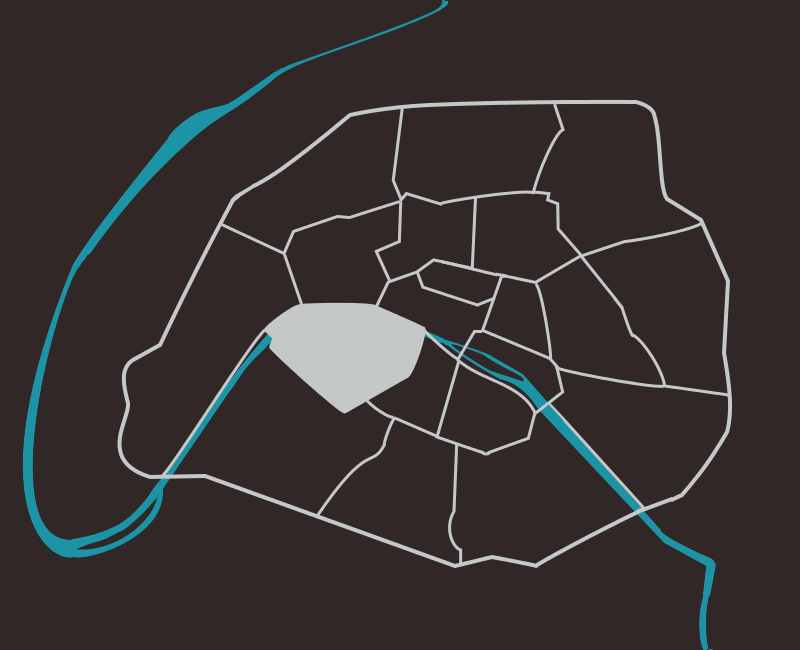
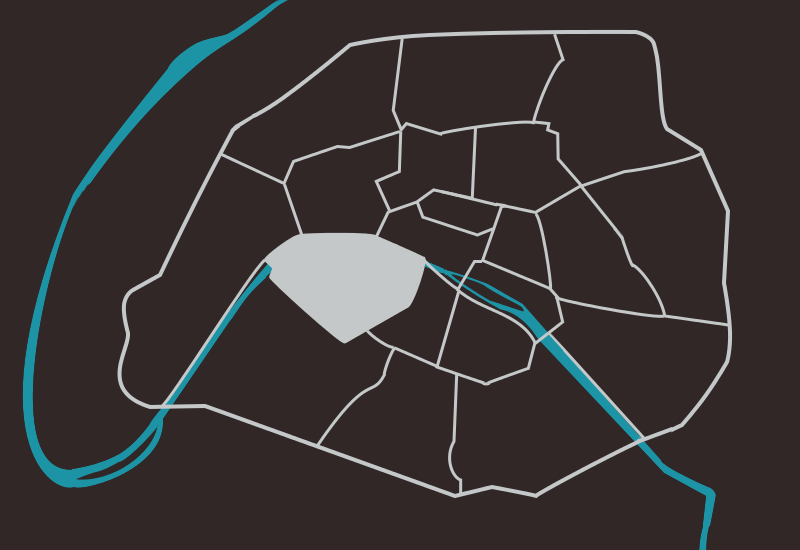
improved UI

diff --git a/home.php b/home.php
@@ -7,10 +7,10 @@
     
 </head>
 <body>
-	<?php include("banniere.php"); ?>
+	<!--<?php include("banniere.php"); ?>-->
 	<?php include("menu.php"); ?>
 	<div id='main'>
-		<img id='map' src="img/map-site/parismap.png" usemap="#paris" style="visibility:visible">
+		<img id='map' src="img/map-site/parismap_smaller.png" usemap="#paris" style="visibility:visible">
  		<map name='paris'><!--
  			<area id='img1'shape='polygon' coords='' href='eighteenth.php'></area>
  			<area id='img2'shape='polygon' coords='' href='eighteenth.php'></area>
@@ -28,10 +28,10 @@
  			<area id='img14'shape='polygon' coords='' href='eighteenth.php'></area>
  			<area id='img15'shape='polygon' coords='' href='eighteenth.php'></area>
  			<area id='img16'shape='polygon' coords='' href='eighteenth.php'></area>-->
- 			<area id='img17'shape='polygon' coords='400,109,349,117,222,221,280,251,292,230,392,199' href='districts/seventeenth.php'></area>
- 			<area id='img18'shape='polygon' coords='402,108,552,103,561,128,528,189,440,202,395,187' href='districts/eighteenth.php'></area><!--
- 			<area id='img19'shape='polygon' coords='' href='eighteenth.php'></area>
- 			<area id='img20'shape='polygon' coords='' href='eighteenth.php'></area>-->
+ 			<area id='img17'shape='polygon' coords='219,153,349,43,399,36,392,129,276,171' href='districts/seventeenth.php'></area>
+ 			<area id='img18'shape='polygon' coords='400,37,399,125,531,118,554,36' href='districts/eighteenth.php'></area>
+ 			<area id='img19'shape='polygon' coords='564,33,643,38,662,126,696,152,580,179,537,122' href='nineteenth.php'></area>
+ 			<area id='img20'shape='polygon' coords='581,184,699,154,727,320,664,313' href='twentieth.php'></area>
  		</map>
 	</div>
 <script type="text/javascript" src="script/dynImg.js"></script>

diff --git a/districts/seventeenth.php b/districts/seventeenth.php
@@ -5,13 +5,10 @@
 	</head>
 
 	<body>
-		<?php include("../banniere.php"); ?>
-		<?php include("../menu.php");
-			print $_SERVER['DOCUMENT_ROOT'];
-		 ?>
+		<!--<?php include("../banniere.php"); ?>-->
+		<?php include("../menu.php");?>
 		<div id='main'>
-	 		<h1>17th district</h1>
-	 		<img src="../img/seventeenth.jpg">
+	 		<img src="../img/districts/17.png">
 		</div>
 	</body>
 </html>
